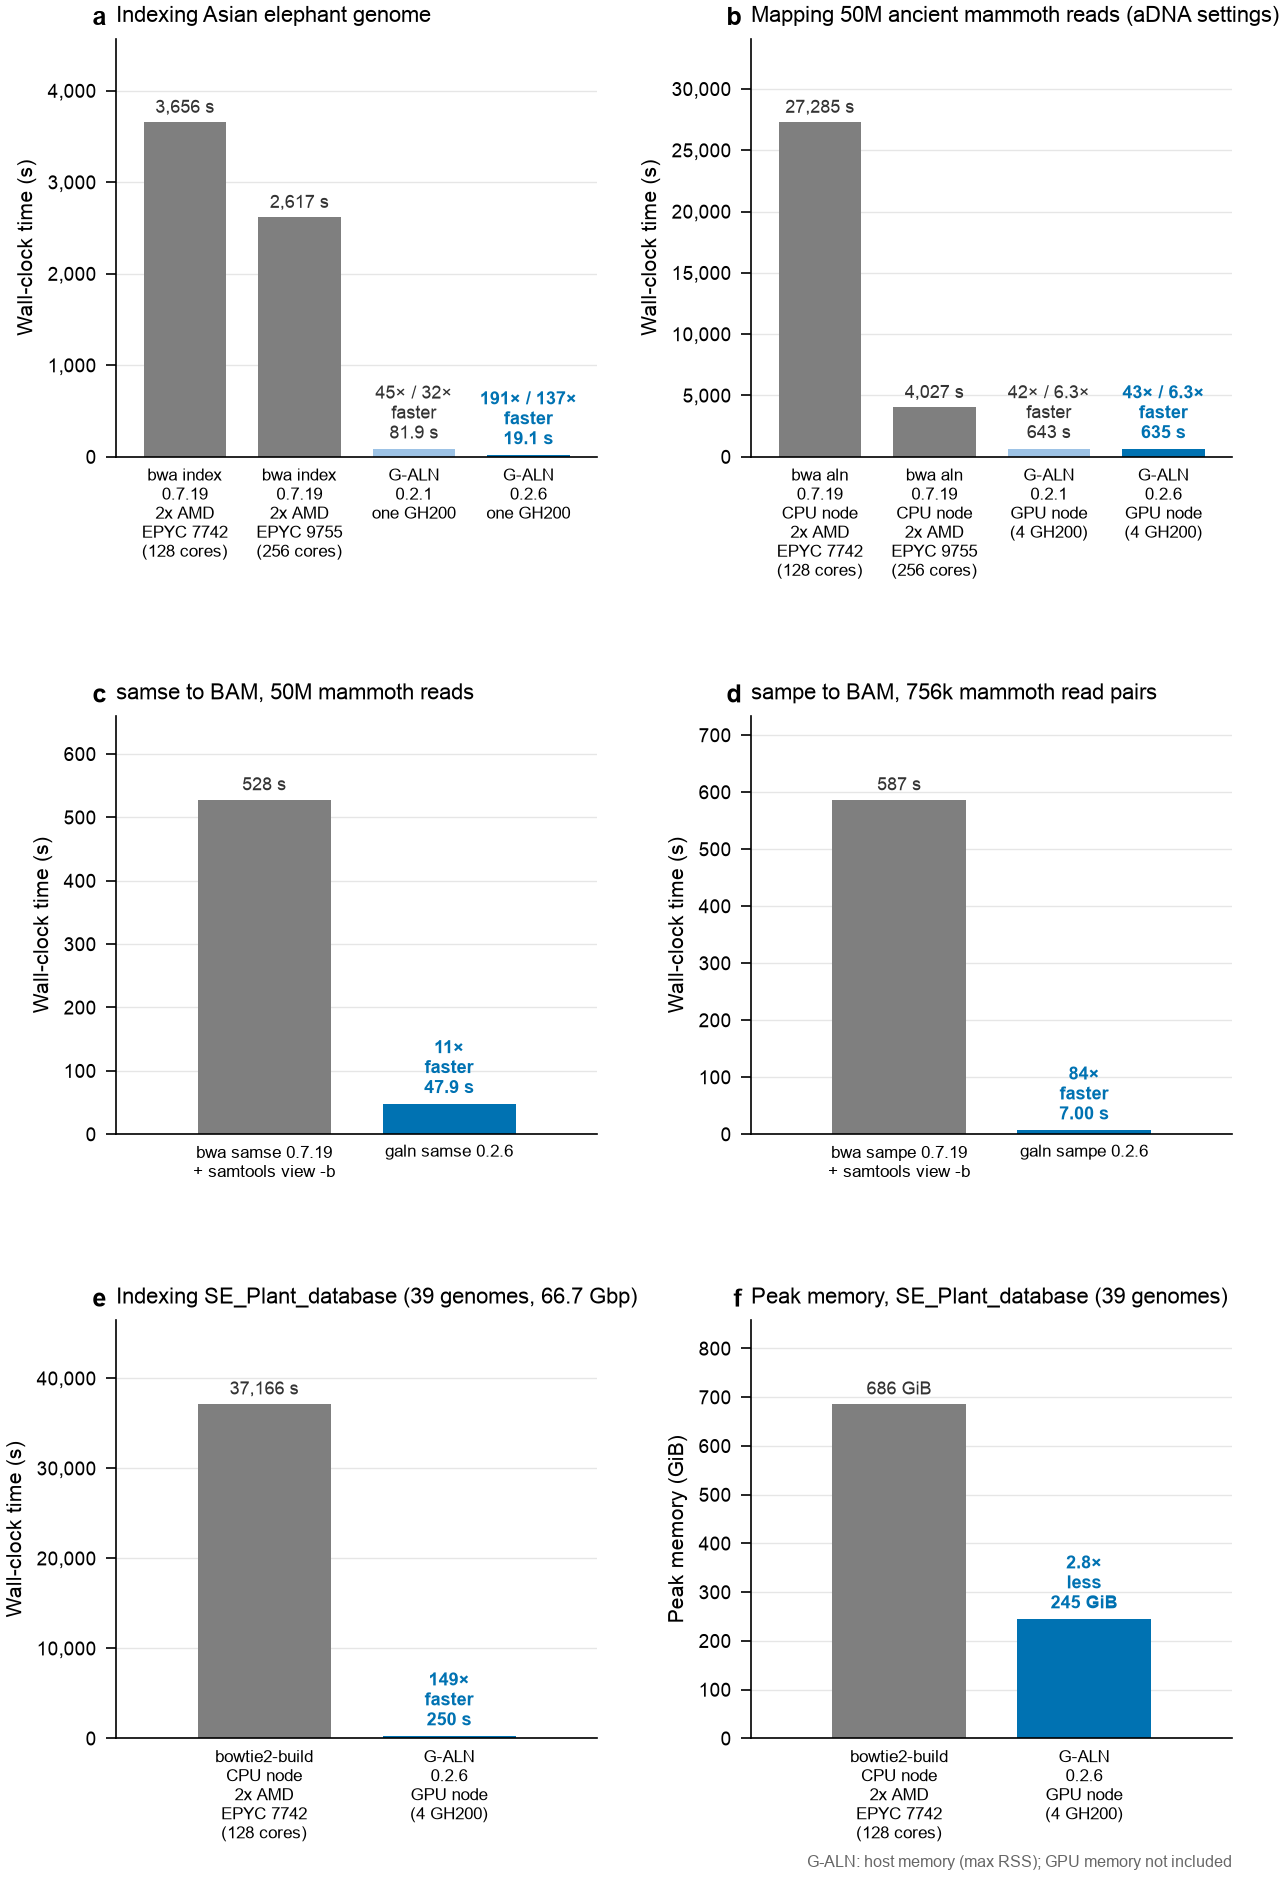
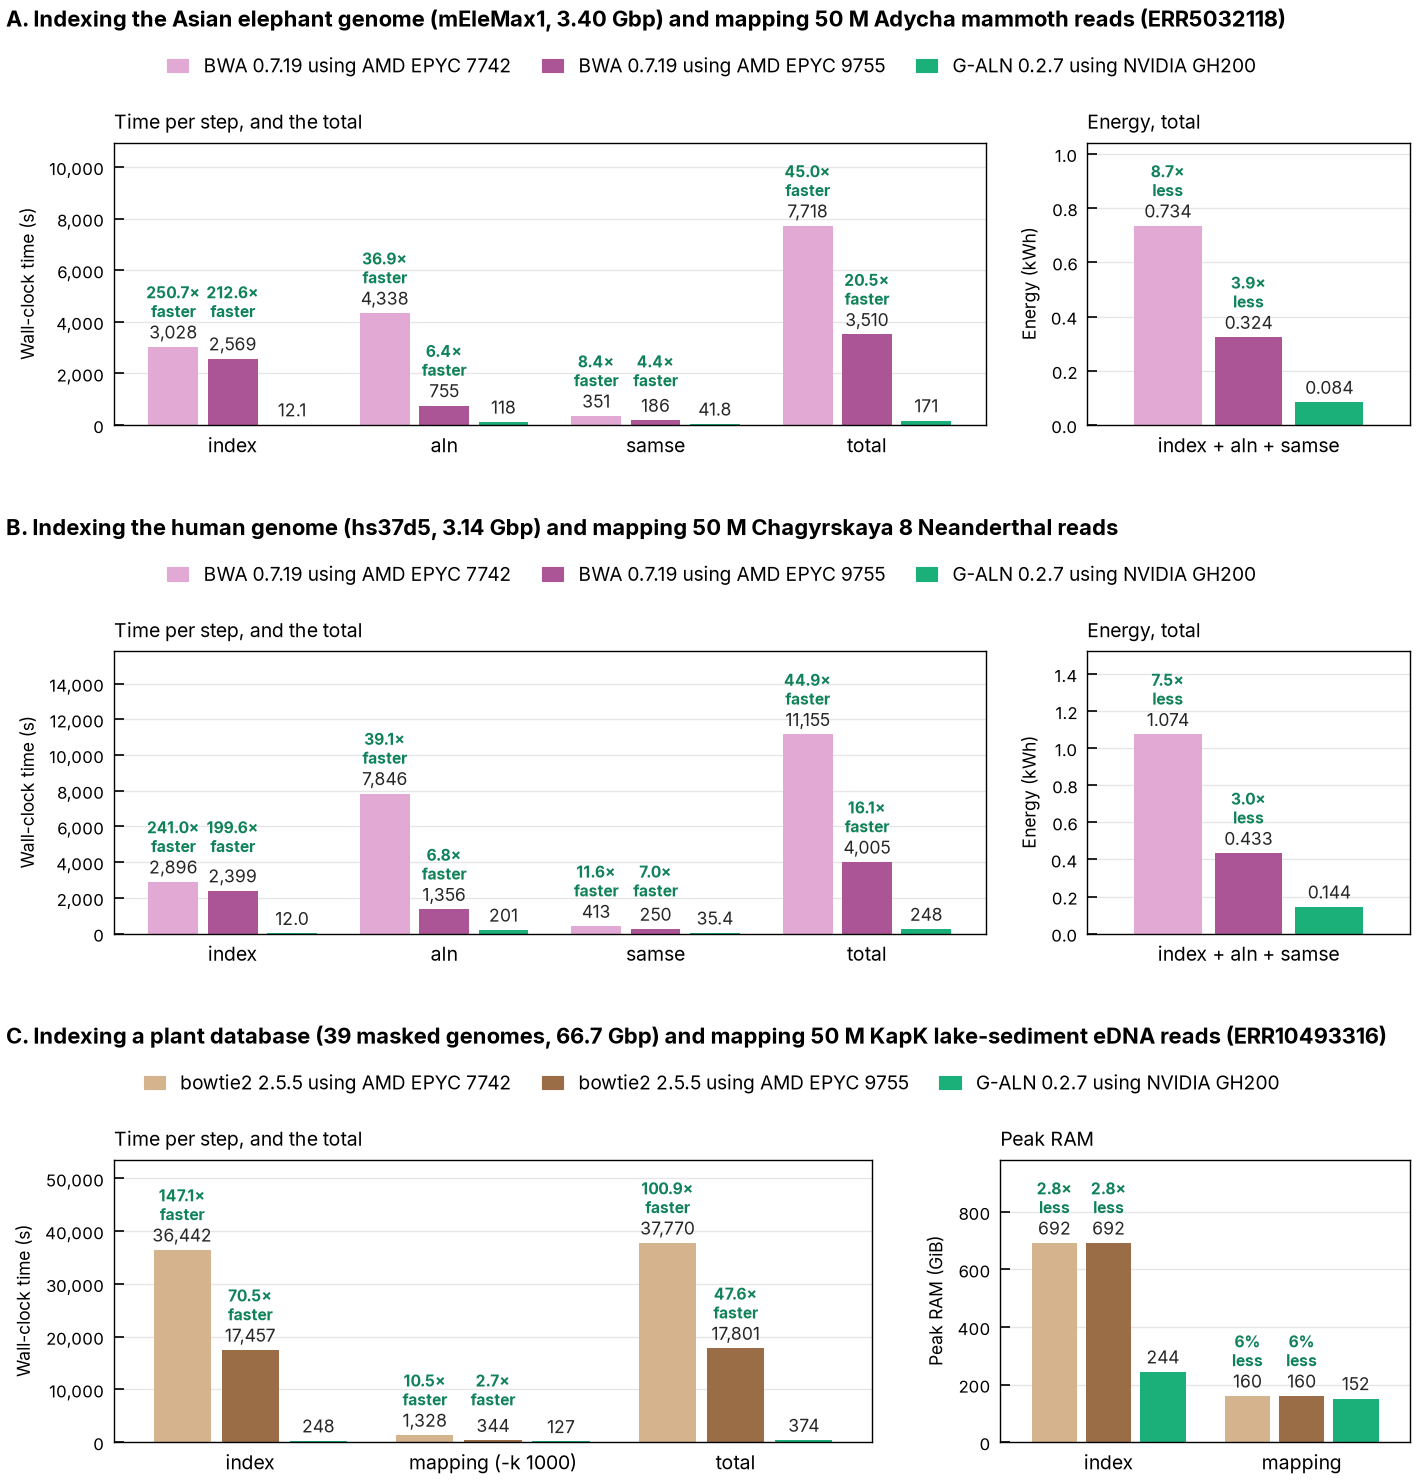
v0.2.7 benchmark figure

diff --git a/README.md b/README.md
@@ -5,10 +5,14 @@ G-ALN runs `bwa aln/index` on NVIDIA GPUs. The output files are byte-identical t
 
 ![Benchmarks](docs/benchmarks.png)
 
-Benchmarks of G-ALN 0.2.6 (dark blue) compared with the preprint version 0.2.1 (light blue),
-BWA 0.7.19 and bowtie2-build (grey); all output files are identical to those of BWA. e–f: indexing SE_Plant_database
-(39 genomes, 66.7 Gbp) on a GPU node (4 GH200) and with bowtie2-build on a CPU node: wall-clock time (e) and peak
-memory (f; for G-ALN, peak host memory, not counting GPU memory).
+Benchmarks of G-ALN 0.2.7 against BWA 0.7.19 (A, B) and bowtie2 2.5.5 (C), with 50 M reads per dataset. G-ALN ran on
+a GPU node with 4× NVIDIA GH200 (indexing in A and B on one GH200); BWA and bowtie2 on CPU nodes with 2× AMD EPYC 7742
+(128 cores) or 2× AMD EPYC 9755 (256 cores). Above each bar is its value and, in green, how G-ALN compares with it.
+A, B: `aln -l 1024 -n 0.01 -o 2` (aDNA settings) for both tools; G-ALN's output files are byte-identical to BWA's.
+C: G-ALN `aln` with the default parameters and `samse -k 1000 --no-unal`; bowtie2 with the default preset and
+`-k 1000 --no-unal`; bowtie2-build `--large-index` with 64 threads on large-memory nodes (2× AMD EPYC 7742 with 1–2 TB,
+2× AMD EPYC 9745 with 3 TB). Total: building the index and mapping. Energy: G-ALN the GH200 modules; BWA the CPU
+sockets (EPYC 9755) or the whole node (EPYC 7742). Peak RAM: host memory.
 
 ## Requirements
 
